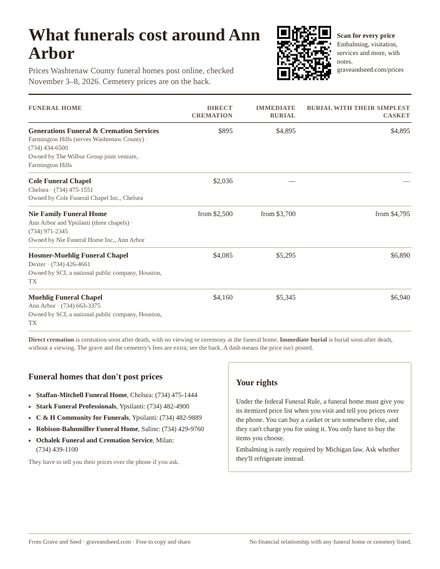
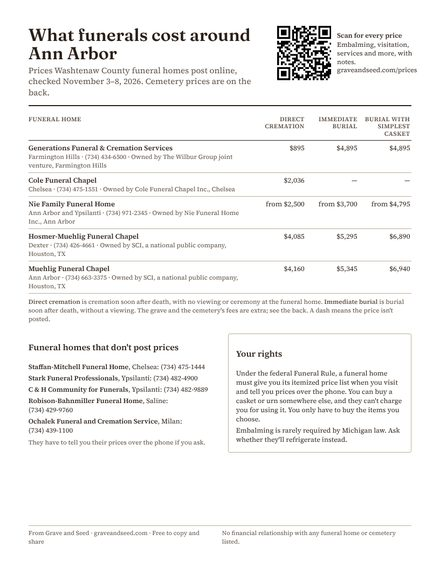
Handout price tables: wider name column, shorter heading, one-line details so rows don't stretch
Claude-Session: https://claude.ai/code/session_011MgnuEfQ4gX5NCFZJMZ5G8

Changed region(s): [[0.0591, 0.0299, 0.9455, 0.8366], [0.5023, 0.9262, 0.9455, 0.9561], [0.0591, 0.9262, 0.4432, 0.9561]]

diff --git a/handouts/first-days.html b/handouts/first-days.html
@@ -107,11 +107,11 @@ sitemap: false
   <h2 class="big">What funeral homes charge here</h2>
   <p class="lead">Prices Washtenaw County funeral homes post online, checked {{ p.updated }}. Prices change, so always confirm when you call.</p>
   <table class="prices">
-    <thead><tr><th>Funeral home</th><th class="num">Direct cremation</th><th class="num">Immediate burial</th><th class="num">Burial with their simplest casket</th></tr></thead>
+    <thead><tr><th>Funeral home</th><th class="num fw">Direct cremation</th><th class="num fw">Immediate burial</th><th class="num fw">Burial with simplest casket</th></tr></thead>
     <tbody>
       {%- for h in p.homes %}
       <tr>
-        <td><span class="who">{{ h.name }}</span><span class="meta">{{ h.town }} &middot; <span class="nw">{{ h.phone }}</span></span>{% if h.owner_short and h.owner_short != "" %}<span class="meta">Owned by {{ h.owner_short }}</span>{% endif %}</td>
+        <td><span class="who">{{ h.name }}</span><span class="meta">{{ h.town | split: " (" | first }} &middot; <span class="nw">{{ h.phone }}</span>{% if h.owner_short and h.owner_short != "" %} &middot; Owned by {{ h.owner_short }}{% endif %}</span></td>
         {%- for k in cols %}
         {%- assign v = h[k] -%}
         <td class="num">{% if v != "" and v != nil %}{% if h.starting %}from {% endif %}{% include money.html n=v %}{% else %}&mdash;{% endif %}</td>

diff --git a/handouts/costs.html b/handouts/costs.html
@@ -55,11 +55,11 @@ sitemap: false
   </div>
 
   <table class="prices" style="margin-top:10pt">
-    <thead><tr><th>Funeral home</th><th class="num">Direct cremation</th><th class="num">Immediate burial</th><th class="num">Burial with their simplest casket</th></tr></thead>
+    <thead><tr><th>Funeral home</th><th class="num fw">Direct cremation</th><th class="num fw">Immediate burial</th><th class="num fw">Burial with simplest casket</th></tr></thead>
     <tbody>
       {%- for h in p.homes %}
       <tr>
-        <td><span class="who">{{ h.name }}</span><span class="meta">{{ h.town }} &middot; <span class="nw">{{ h.phone }}</span></span>{% if h.owner_short and h.owner_short != "" %}<span class="meta">Owned by {{ h.owner_short }}</span>{% endif %}</td>
+        <td><span class="who">{{ h.name }}</span><span class="meta">{{ h.town | split: " (" | first }} &middot; <span class="nw">{{ h.phone }}</span>{% if h.owner_short and h.owner_short != "" %} &middot; Owned by {{ h.owner_short }}{% endif %}</span></td>
         {%- for k in cols %}
         {%- assign v = h[k] -%}
         <td class="num">{% if v != "" and v != nil %}{% if h.starting %}from {% endif %}{% include money.html n=v %}{% else %}&mdash;{% endif %}</td>

diff --git a/_includes/handout-style.html b/_includes/handout-style.html
@@ -30,6 +30,7 @@ table.prices th, table.prices td { text-align: left; vertical-align: top; paddin
 table.prices thead th { font: 600 8.6pt/1.2 "Source Serif 4", Georgia, serif; text-transform: uppercase; letter-spacing: .04em; color: var(--muted); border-bottom: 1.5px solid var(--ink); }
 table.prices td.num { text-align: right; font-variant-numeric: tabular-nums; white-space: nowrap; padding-right: 2pt; }
 table.prices thead th.num { text-align: right; padding-right: 2pt; }
+table.prices th.fw { width: 1.02in; }
 table.prices .who { font-weight: 600; }
 table.prices .meta { display: block; color: var(--muted); font-size: 8.8pt; }
 .small { font-size: 8.8pt; color: var(--muted); margin: 0 0 9pt; }
